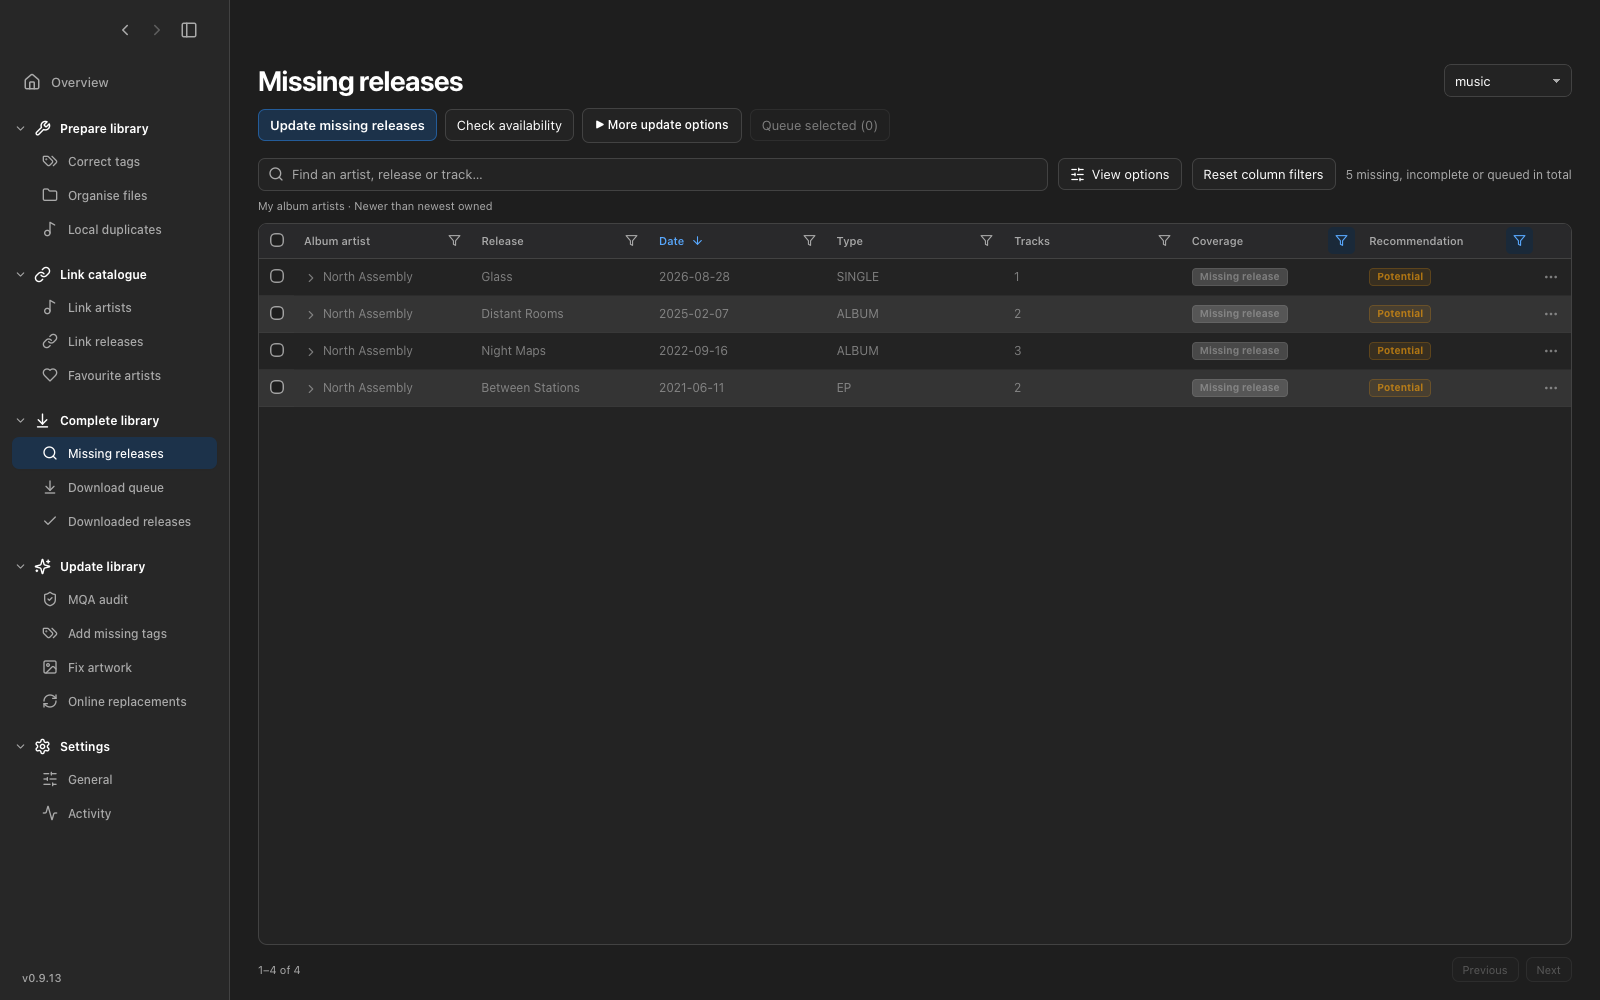
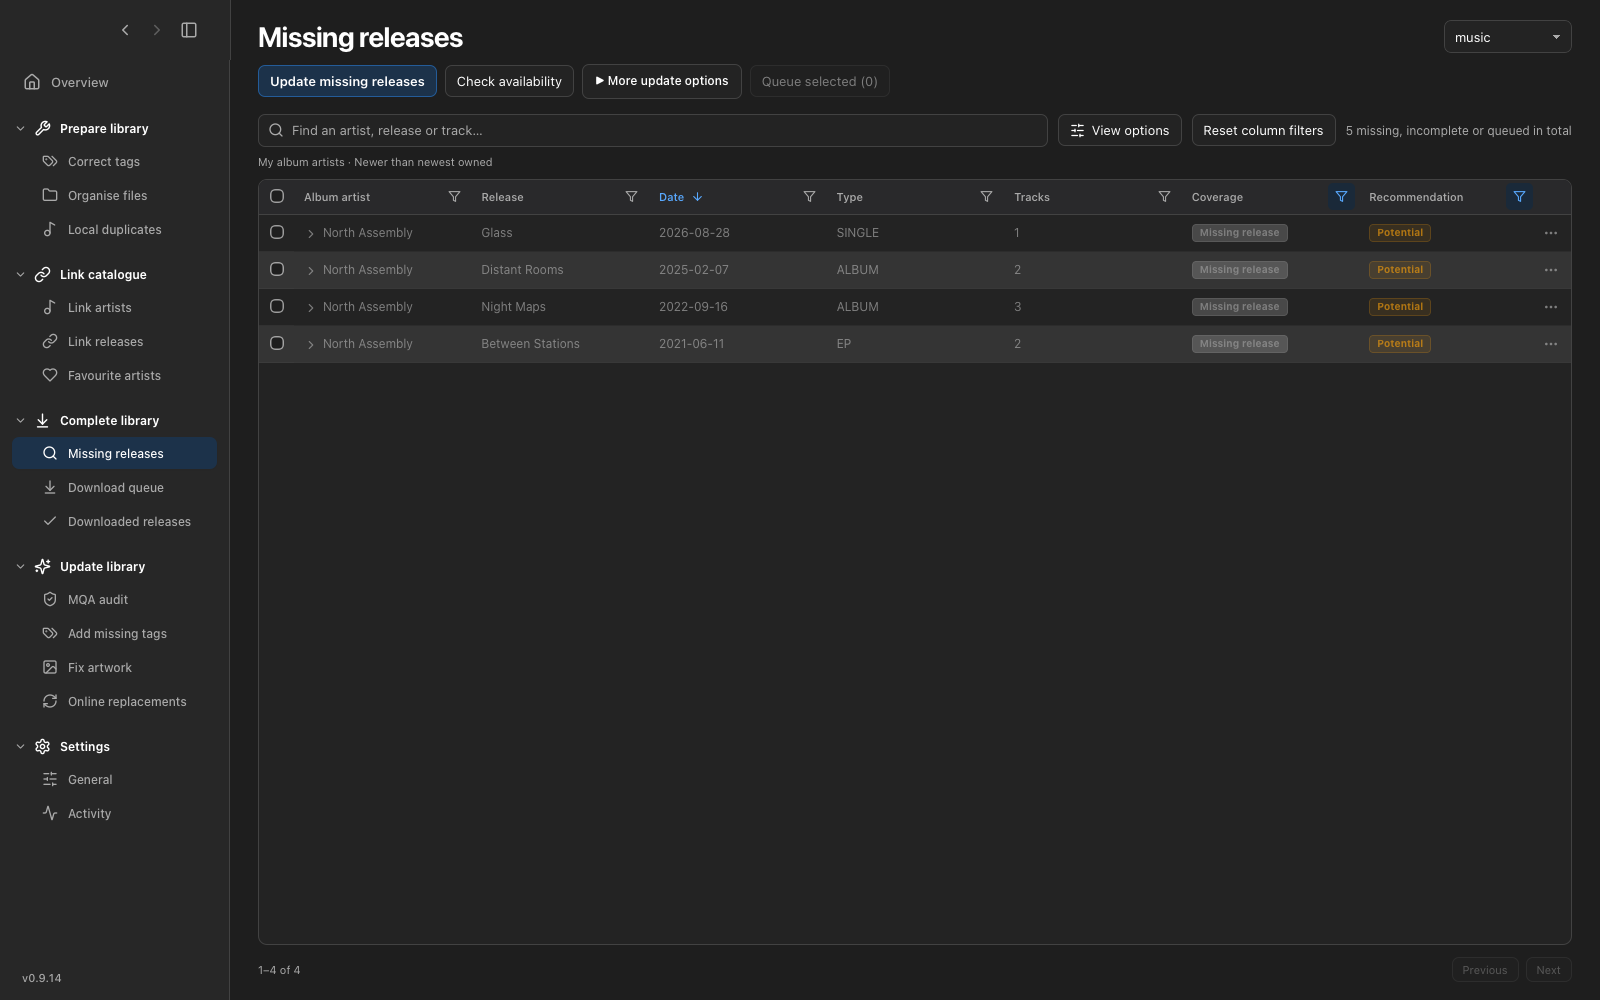
Use top window space for the main pane while preserving controls

diff --git a/desktop/src/style.css b/desktop/src/style.css
@@ -188,14 +188,15 @@ pre {
   line-height: 1.6;
 }
 .app {
+  --sidebar-width: 230px;
   display: flex;
   height: 100dvh;
-  padding-top: 60px;
   overflow: hidden;
 }
 aside {
-  width: 230px;
-  min-width: 230px;
+  width: var(--sidebar-width);
+  min-width: var(--sidebar-width);
+  margin-top: 60px;
   background: var(--sidebar);
   border-right: 1px solid var(--line);
   padding: 4px 12px 14px;
@@ -208,14 +209,24 @@ aside {
 .drag-region {
   position: fixed;
   inset: 0 0 auto;
-  height: 60px;
+  height: 16px;
   z-index: 100;
-  background: linear-gradient(to right, var(--sidebar) 229px, var(--line) 229px, var(--line) 230px, var(--bg) 230px);
+  background: var(--bg);
   user-select: none;
 }
-.sidebar-hidden .drag-region { background: var(--bg); }
+/* Reserve the native window controls above the sidebar, not above both panes. */
+.drag-region::before {
+  content: "";
+  position: absolute;
+  inset: 0 auto auto 0;
+  width: var(--sidebar-width);
+  height: 60px;
+  background: var(--sidebar);
+  border-right: 1px solid var(--line);
+}
+.sidebar-hidden .drag-region::before { background: var(--bg); border-right: 0; }
 #app-sidebar[hidden] { display: none; }
-.window-navigation { display: flex; align-items: center; gap: 2px; width: fit-content; margin-left: 110px; height: 60px; }
+.window-navigation { position: relative; display: flex; align-items: center; gap: 2px; width: fit-content; margin-left: 110px; height: 60px; }
 .window-navigation button { width: 30px; height: 30px; padding: 0; border: 0; background: transparent; box-shadow: none; color: var(--muted); }
 .window-navigation button:hover:not(:disabled) { background: var(--accent-hover); color: var(--text); }
 .nav-item {
@@ -302,10 +313,11 @@ main {
   min-width: 0;
   display: flex;
   flex-direction: column;
-  padding: 4px 28px 18px;
+  padding: 20px 28px 18px;
   min-height: 0;
   overflow: hidden;
 }
+.sidebar-hidden main { padding-top: 64px; }
 .page-header {
   flex-shrink: 0;
   display: flex;
@@ -1273,12 +1285,9 @@ dialog p {
   }
 }
 @media (max-width: 1150px) {
-  aside {
-    width: 208px;
-    min-width: 208px;
-  }
+  .app { --sidebar-width: 208px; }
   main {
-    padding: 40px 20px 16px;
+    padding: 20px 20px 16px;
   }
   .header-actions {
     flex-direction: column;

diff --git a/desktop/docs/DOCUMENTATION.md b/desktop/docs/DOCUMENTATION.md
@@ -1,6 +1,6 @@
 # Tibrary guide
 
-Version **0.9.13** · [Setup and screenshots](../../README.md)
+Version **0.9.14** · [Setup and screenshots](../../README.md)
 
 ## Everyday workflows
 
